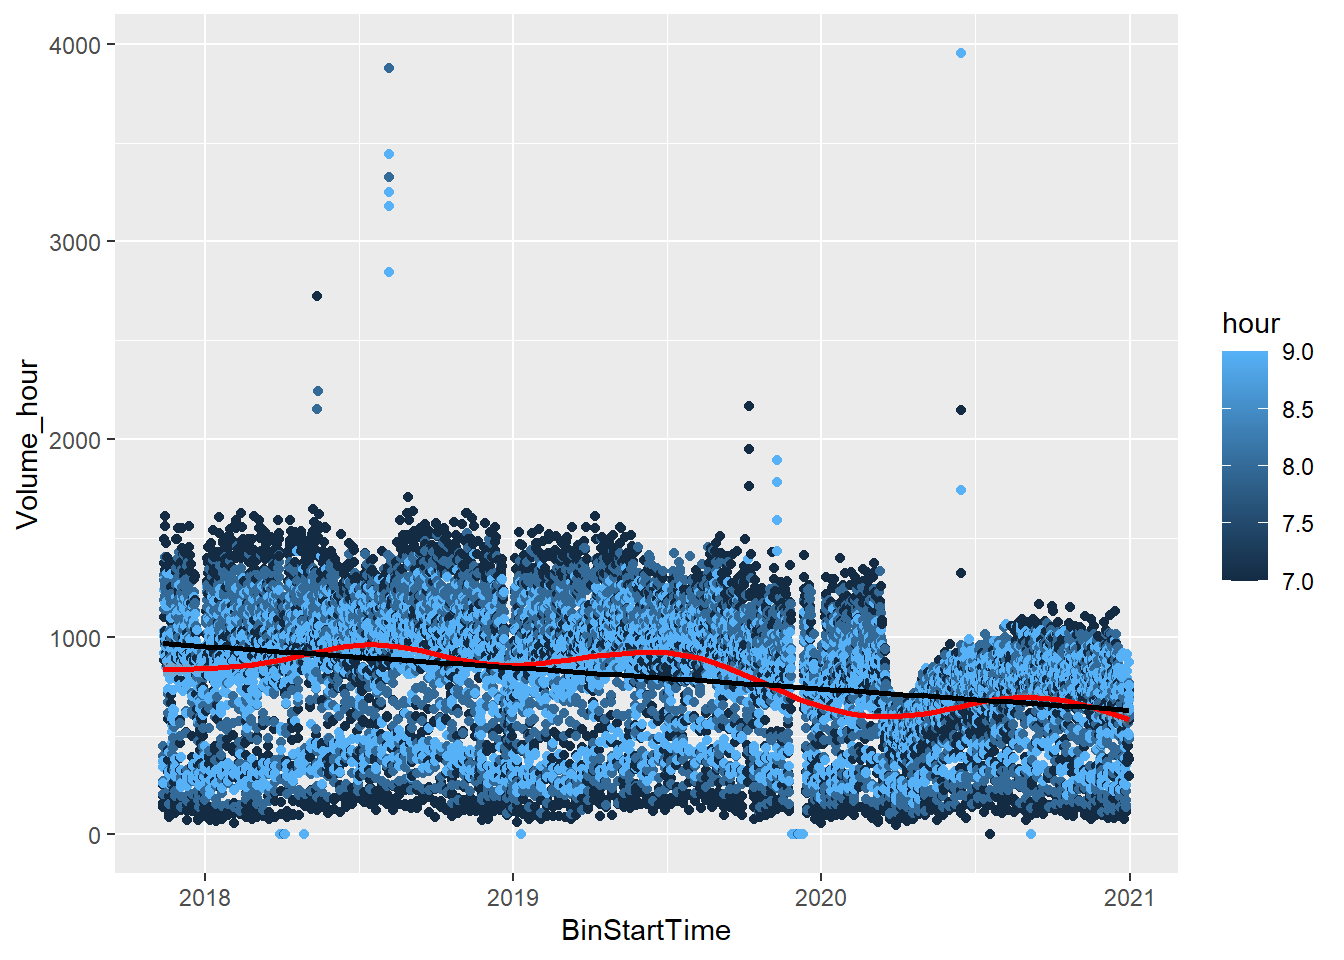
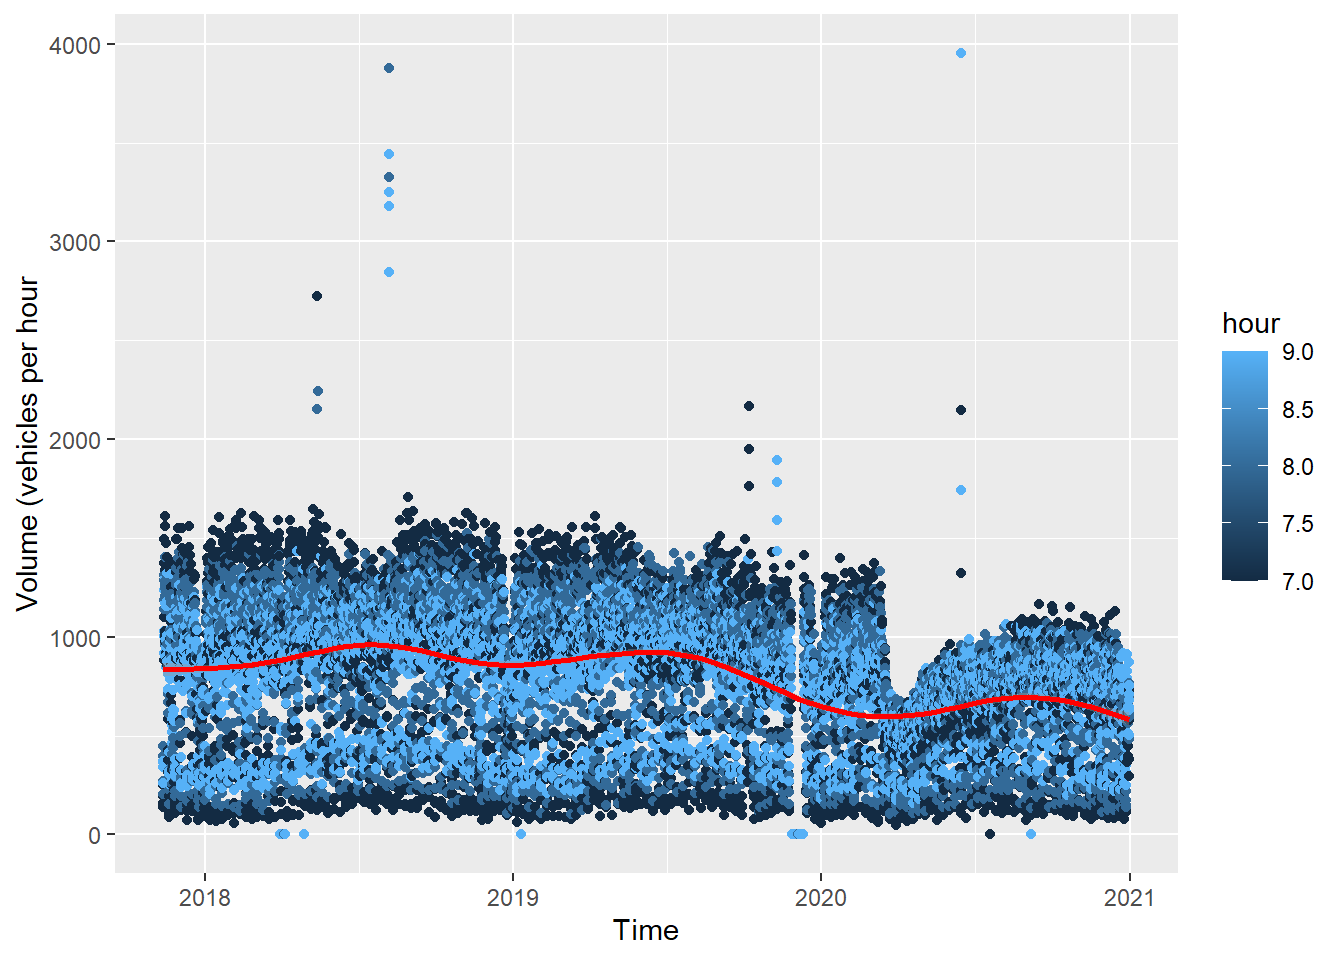
Update docs folders

diff --git a/docs/methods.html b/docs/methods.html
@@ -23,7 +23,7 @@
 
 
 
-<meta name="date" content="2021-11-12" />
+<meta name="date" content="2021-11-29" />
 
   <meta name="viewport" content="width=device-width, initial-scale=1" />
   <meta name="apple-mobile-web-app-capable" content="yes" />
@@ -177,7 +177,6 @@ Orem 800 N, and Fort Union Boulevard in Cottonwood Heights during the years
 2017-2020. It included various performance measure related data, such as Volume,
 Split Failures, Yellow and Red Actuations, Turning Movement Counts, Arrivals on
 Red, and Approach Speed.To simplify the analysis, we only focused on Volume.</p>
-<div class="sourceCode" id="cb1"><pre class="sourceCode r"><code class="sourceCode r"><span id="cb1-1"><a href="methods.html#cb1-1" aria-hidden="true" tabindex="-1"></a>Volume <span class="ot">&lt;-</span> <span class="fu">read_rds</span>(<span class="st">&quot;data/Volume.rds&quot;</span>)</span></code></pre></div>
 <p>Signal and peak hour specific linear models were calculated and compared from
 pre-COVID pandemic time periods to during the COVID pandemic time periods. Becuase of the
 drastic drop of volumes on March 12, 2020, this date was chosen as
@@ -186,6 +185,10 @@ through December 31, 2020, so the period of March 12 to December 31 of each year
 was used for comparison. Linear models were created and graphed together using a facet grid to show and measure the percent change in volumes due to the COVID-19 pandemic.
 The density of vehicles was greatest during the hours of 7AM to 9AM and 4PM to 6PM,
 or the “AM Peak” and “PM Peak” respectively. Only these hours were used in the analysis.</p>
+<div class="sourceCode" id="cb1"><pre class="sourceCode r"><code class="sourceCode r"><span id="cb1-1"><a href="methods.html#cb1-1" aria-hidden="true" tabindex="-1"></a>Volume <span class="ot">&lt;-</span> <span class="fu">read_rds</span>(<span class="st">&quot;data/Volume.rds&quot;</span>)</span></code></pre></div>
+<p>Often there will be a table describing summary statistics of your dataset.
+Table <a href="#tab:datasummary"><strong>??</strong></a> shows a nice table using the <a href="https://vincentarelbundock.github.io/modelsummary/articles/datasummary.html"><code>datasummary</code></a>
+functions in the <code>modelsummary</code> package.</p>
 <div class="sourceCode" id="cb2"><pre class="sourceCode r"><code class="sourceCode r"><span id="cb2-1"><a href="methods.html#cb2-1" aria-hidden="true" tabindex="-1"></a><span class="fu">library</span>(tidyverse)</span>
 <span id="cb2-2"><a href="methods.html#cb2-2" aria-hidden="true" tabindex="-1"></a></span>
 <span id="cb2-3"><a href="methods.html#cb2-3" aria-hidden="true" tabindex="-1"></a><span class="co">#Graph Signal Specific Volumes</span></span>
@@ -197,9 +200,9 @@ or the “AM Peak” and “PM Peak” respectively. Only these hours were used 
 <span id="cb2-9"><a href="methods.html#cb2-9" aria-hidden="true" tabindex="-1"></a>  <span class="fu">ggplot</span>(<span class="fu">aes</span>(<span class="at">x=</span> BinStartTime, <span class="at">y =</span> Volume_hour, <span class="at">color =</span> hour)) <span class="sc">+</span></span>
 <span id="cb2-10"><a href="methods.html#cb2-10" aria-hidden="true" tabindex="-1"></a>  <span class="fu">geom_point</span>() <span class="sc">+</span></span>
 <span id="cb2-11"><a href="methods.html#cb2-11" aria-hidden="true" tabindex="-1"></a>  <span class="fu">geom_smooth</span>(<span class="at">color =</span> <span class="st">&#39;red&#39;</span>) <span class="sc">+</span></span>
-<span id="cb2-12"><a href="methods.html#cb2-12" aria-hidden="true" tabindex="-1"></a>  <span class="fu">geom_smooth</span>(<span class="at">method =</span> <span class="st">&#39;lm&#39;</span>, <span class="at">color =</span> <span class="st">&#39;black&#39;</span>)</span></code></pre></div>
+<span id="cb2-12"><a href="methods.html#cb2-12" aria-hidden="true" tabindex="-1"></a>  <span class="fu">xlab</span>(<span class="st">&quot;Time&quot;</span>) <span class="sc">+</span></span>
+<span id="cb2-13"><a href="methods.html#cb2-13" aria-hidden="true" tabindex="-1"></a>  <span class="fu">ylab</span>(<span class="st">&quot;Volume (vehicles per hour&quot;</span>)</span></code></pre></div>
 <pre><code>## `geom_smooth()` using method = &#39;gam&#39; and formula &#39;y ~ s(x, bs = &quot;cs&quot;)&#39;</code></pre>
-<pre><code>## `geom_smooth()` using formula &#39;y ~ x&#39;</code></pre>
 <p><img src="ATSPM_data_analysis_files/figure-html/datasummary-1.png" width="672" /></p>
 <p>Variation in traffic volumes is dependent on multiple factors such as season,
 time of day, day of the week, weather and road conditions, sporting events and

diff --git a/docs/404.html b/docs/404.html
@@ -23,7 +23,7 @@
 
 
 
-<meta name="date" content="2021-11-12" />
+<meta name="date" content="2021-11-29" />
 
   <meta name="viewport" content="width=device-width, initial-scale=1" />
   <meta name="apple-mobile-web-app-capable" content="yes" />
